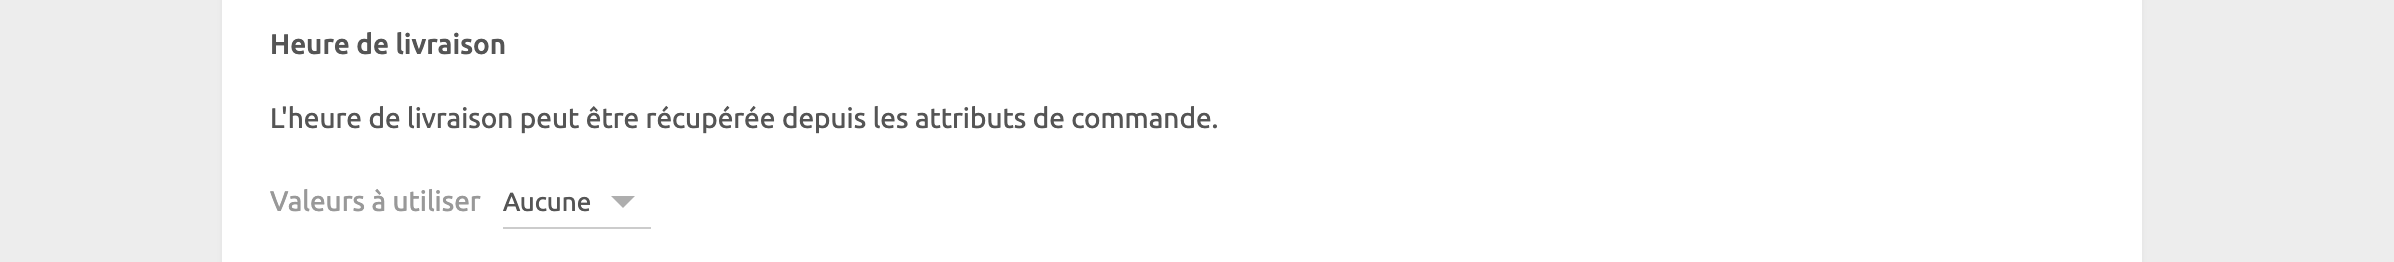
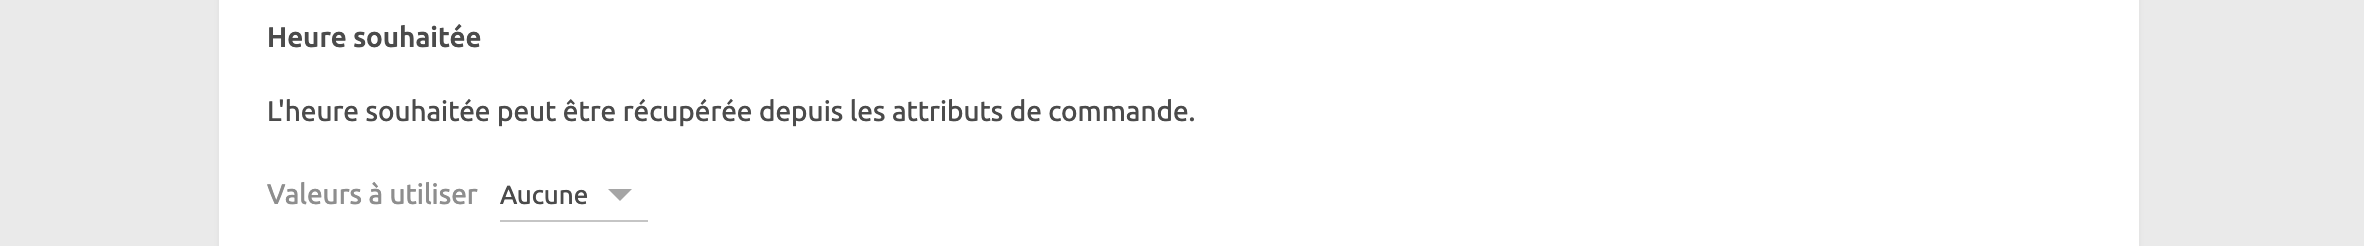
translation fix and updated FR screenshot

Changed region(s): [[0.1235, 0.3984, 0.525, 0.5122], [0.0926, 0.7114, 0.2779, 0.9106], [0.0926, 0.1138, 0.2162, 0.2276]]

diff --git a/content/apps/shopify/fr/configuration.md b/content/apps/shopify/fr/configuration.md
@@ -5,7 +5,7 @@ position: 4
 layout: documentation
 meta:
   title: Configuration | Shopify | HubRise
-  description: Instructions pour configurer Shopify pour un bon fonctionnement avec HubRise, votre caisse ou autres applications connectées à HubRise. La configuration est simple.
+  description: Instructions simples pour configurer Shopify afin qu'il fonctionne parfaitement avec HubRise et votre logiciel de caisse ou autres apps connectées à HubRise. La configuration est simple.
 ---
 
 La page de configuration permet de personnaliser le comportement de Shopify Bridge.
@@ -32,7 +32,7 @@ Pour chaque statut de commande HubRise, spécifiez le statut de commande Shopify
 
 Dans le champ **Code ref du type de service**, saisissez le code ref du type de service que votre logiciel de caisse attend pour les commandes Shopify. Pour connaître ses exigences, reportez-vous à la documentation de votre logiciel de caisse sur notre [page Apps](/apps).
 
-### Heure de livraison
+### Heure souhaitée
 
 ![Page de configuration Shopify Bridge, Heure de livraison](./images/014-shopify-configuration-expected-time.png)
 

diff --git a/content/apps/shopify/fr/user-interface.md b/content/apps/shopify/fr/user-interface.md
@@ -47,7 +47,7 @@ Les logs constituent un puissant outil de débogage en cas d'incident. Pour comp
 
 Une page de requête système est présentée de la même manière qu'une page de commande.
 
-System requests are generally sent by Shopify Bridge to notify HubRise about a change in the configuration or to fetch the most up-to-date information.
+Les requêtes système sont généralement envoyées par Shopify Bridge pour informer HubRise d'une modification de la configuration ou pour récupérer les informations les plus récentes.
 
 Les pages de requête système fournissent des informations de débogage utiles aux équipes d'assistance. Mais elles ont généralement peu d'intérêt pour les autres utilisateurs.
 
